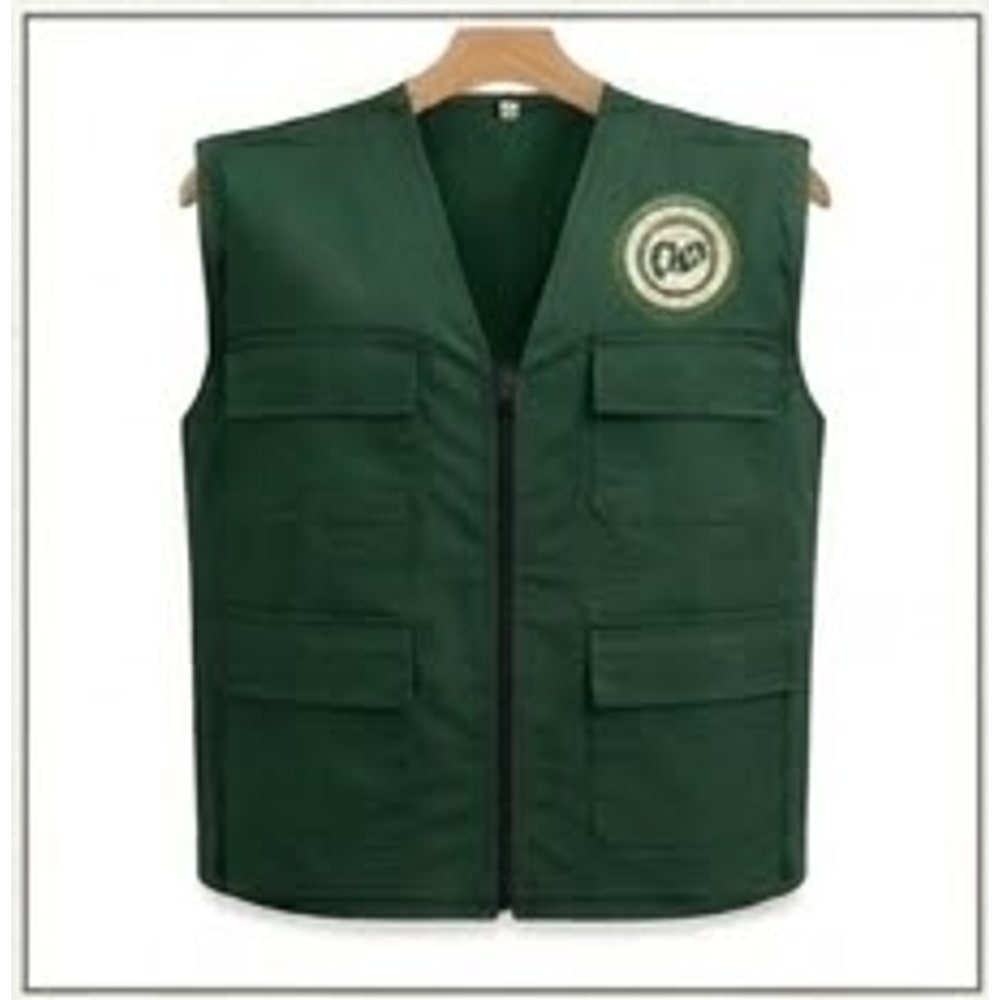
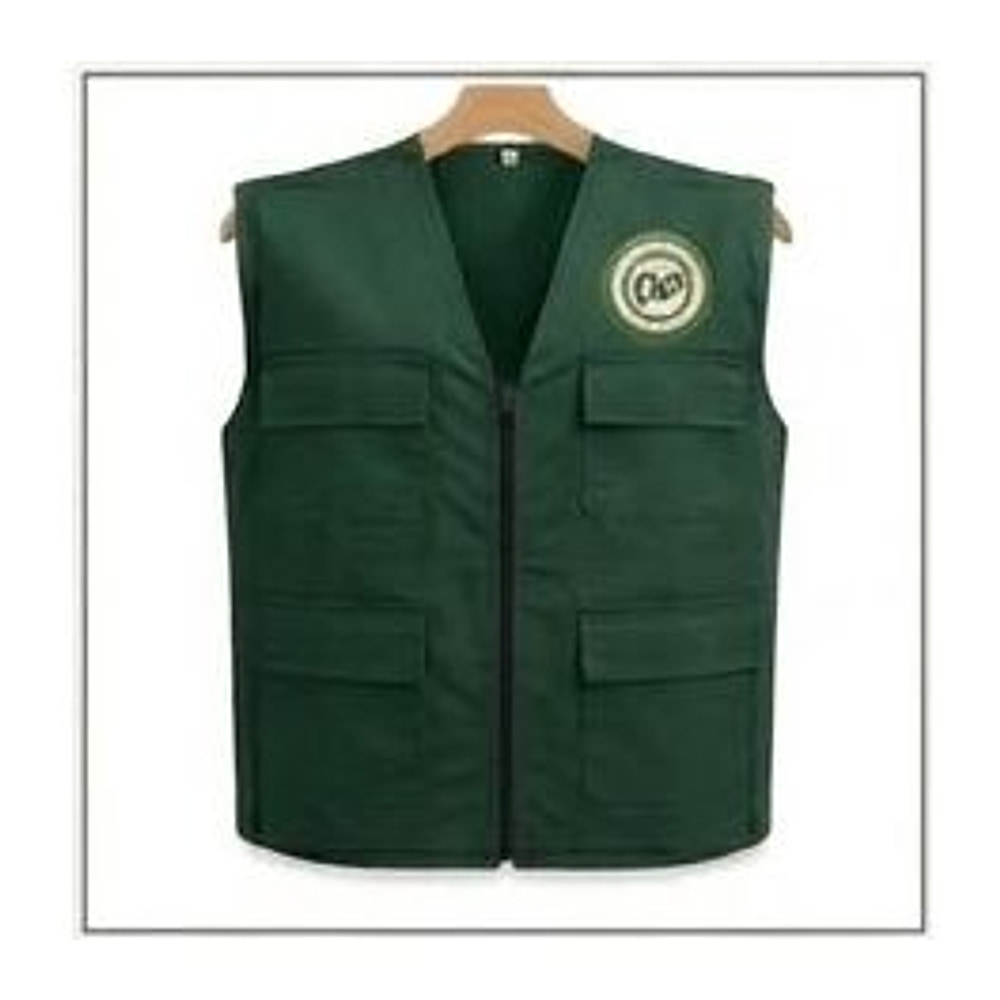
Remonte en haut à chaque étape du wizard et raffermit les photos coloris
Changer d'étape gardait la position de défilement : arrivé au bas de
l'étape 1 pour appuyer sur « Continuer », on tombait au milieu de
l'étape 2, titre et premiers champs déjà passés. Le retour en haut est
posé sur le changement d'étape lui-même plutôt qu'aux six endroits qui
l'appellent, donc l'indicateur d'étapes et les boutons « Retour » se
comportent comme « Continuer ».

Photos : la chaîne de découpe redimensionnait deux fois — un Lanczos de
plus pour rien sur une source déjà petite. Une seule passe désormais, le
cadrage carré est posé avant l'agrandissement et non après (sharp applique
extend après resize quel que soit l'ordre d'écriture, ce qui rendait des
images de 1044 px), avec un masque de netteté et une qualité JPEG relevée
à 92 en 4:4:4. Les contours du logo et des coutures y gagnent nettement.

Le plafond reste la source : les planches reçues font 1024 px de large,
soit 226 à 330 px par vêtement, agrandis 3 à 4 fois pour l'affichage.

Claude-Session: https://claude.ai/code/session_01GTDAVymBfwhSZxPEK7QiX4

diff --git a/pages/commande.js b/pages/commande.js
@@ -1,6 +1,6 @@
 import Head from 'next/head'
 import Link from 'next/link'
-import { useState } from 'react'
+import { useState, useEffect, useRef } from 'react'
 import { PRODUCTS } from '../lib/products'
 import ProductImg from '../components/ProductImg'
 import ProductSheet from '../components/ProductSheet'
@@ -25,6 +25,17 @@ export default function Commande() {
   // inside the sheet, so the wizard no longer carries a half-filled
   // selection around between products.
   const [sheetProduct, setSheetProduct] = useState(null)
+
+  // Each step is a full page of its own, so changing step while scrolled
+  // halfway down dropped the visitor into the middle of the next one — the
+  // heading, and often the first fields, were already above the fold. Done
+  // here rather than at the six call sites so the step indicator and the
+  // "Retour" buttons behave the same as "Continuer".
+  const first = useRef(true)
+  useEffect(() => {
+    if (first.current) { first.current = false; return }
+    window.scrollTo({ top: 0, behavior: 'smooth' })
+  }, [step, done])
 
   const addProduct = (item) => setOrder(o => ({ ...o, prods: [...o.prods, item] }))
 
